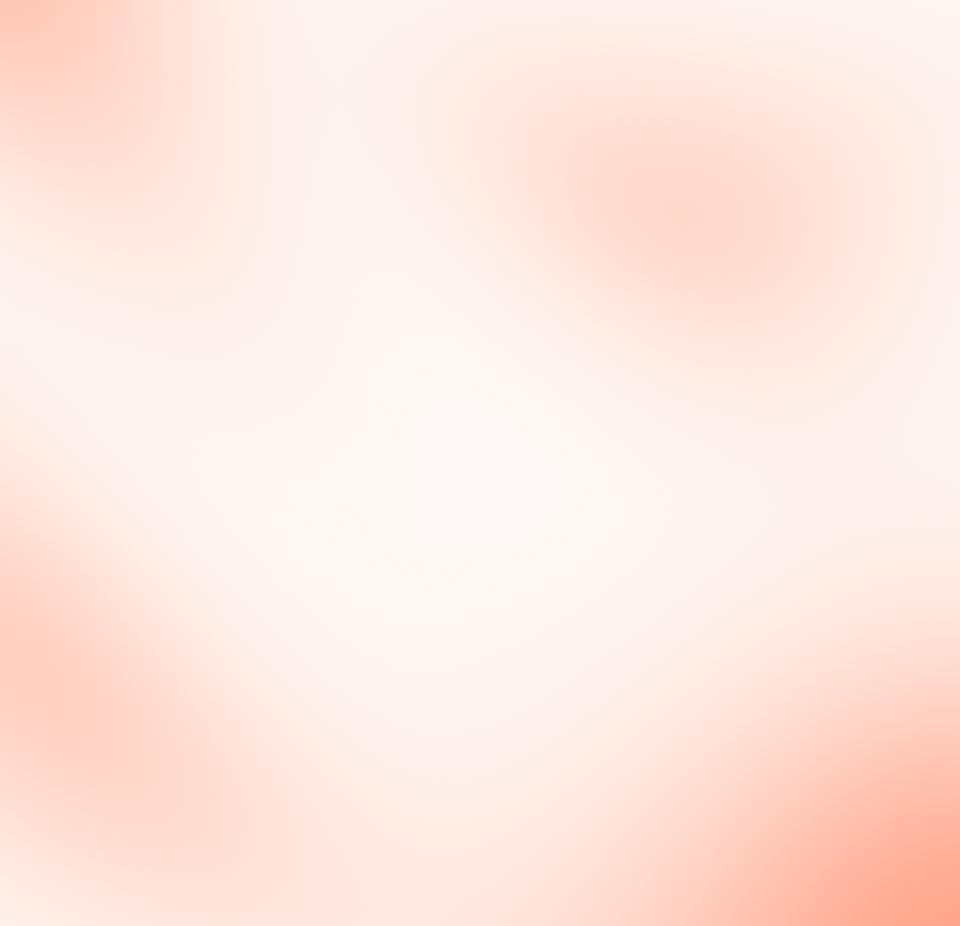
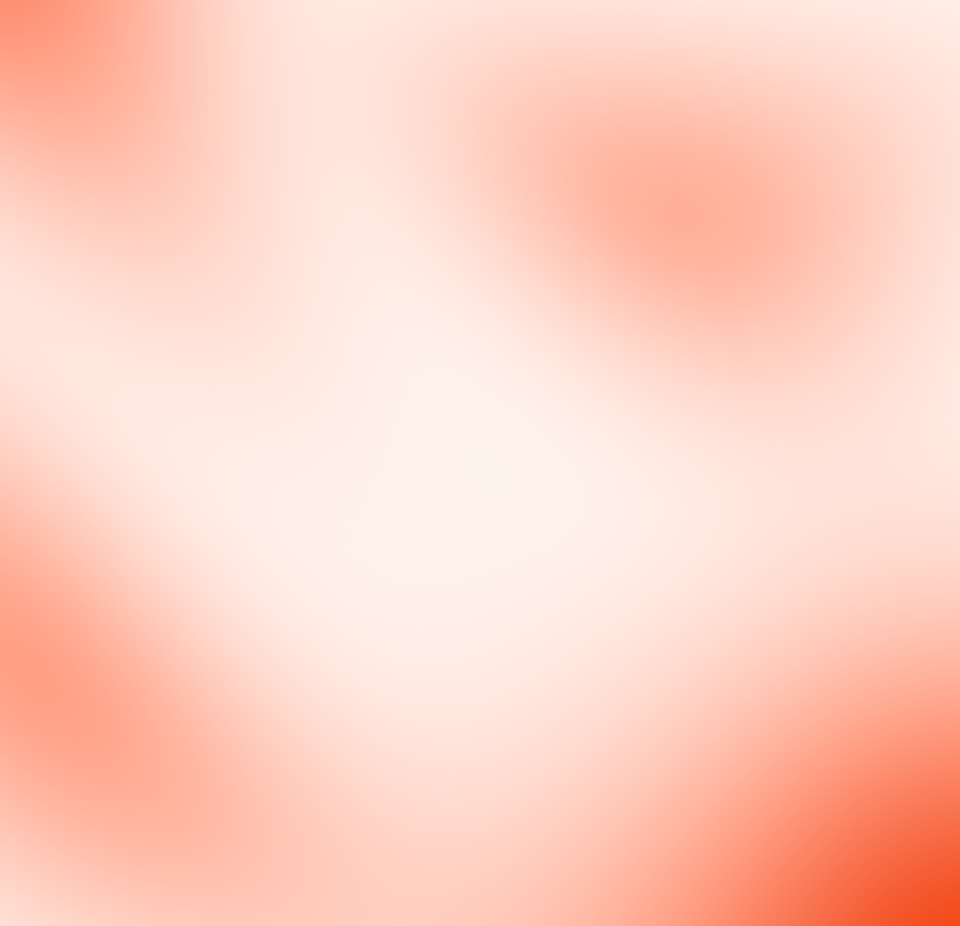
Orange blends: strongest spot reaches full #F24B18
Claude-Session: https://claude.ai/code/session_01Lo4DwFPGkBZy1W7n1vwAfb

diff --git a/backgrounds/make_orange_blend.py b/backgrounds/make_orange_blend.py
@@ -1,4 +1,4 @@
-"""Blended white + #F24B18 gradients for the 4th thumbnail (480 x 463), no grain.
+"""Blended white + #F24B18 gradients (the strongest spot is the full orange) for the 4th thumbnail (480 x 463), no grain.
 
     python3 backgrounds/make_orange_blend.py
 
@@ -72,7 +72,11 @@ def render(design, scale):
     yy, xx = np.mgrid[0:h, 0:w].astype(float)
     x, y = xx / h, yy / h
     qx, qy = swirl(x, y, k)
-    t = np.clip(keep_centre_light(x, y, f(qx, qy)), 0, 1)[..., None]
+    t = keep_centre_light(x, y, f(qx, qy))
+    # Lift the whole field so its strongest spot reaches the true #F24B18;
+    # the curve keeps the light areas light while the peaks get full colour.
+    t = np.clip(t / t.max(), 0, 1) ** 0.85
+    t = t[..., None]
     lab = WHITE * (1 - t) + ORANGE * t
     img = oklab_to_srgb(lab) + np.random.default_rng(3).uniform(-0.5, 0.5, (h, w, 1))
     return Image.fromarray(np.clip(np.round(img), 0, 255).astype(np.uint8))
